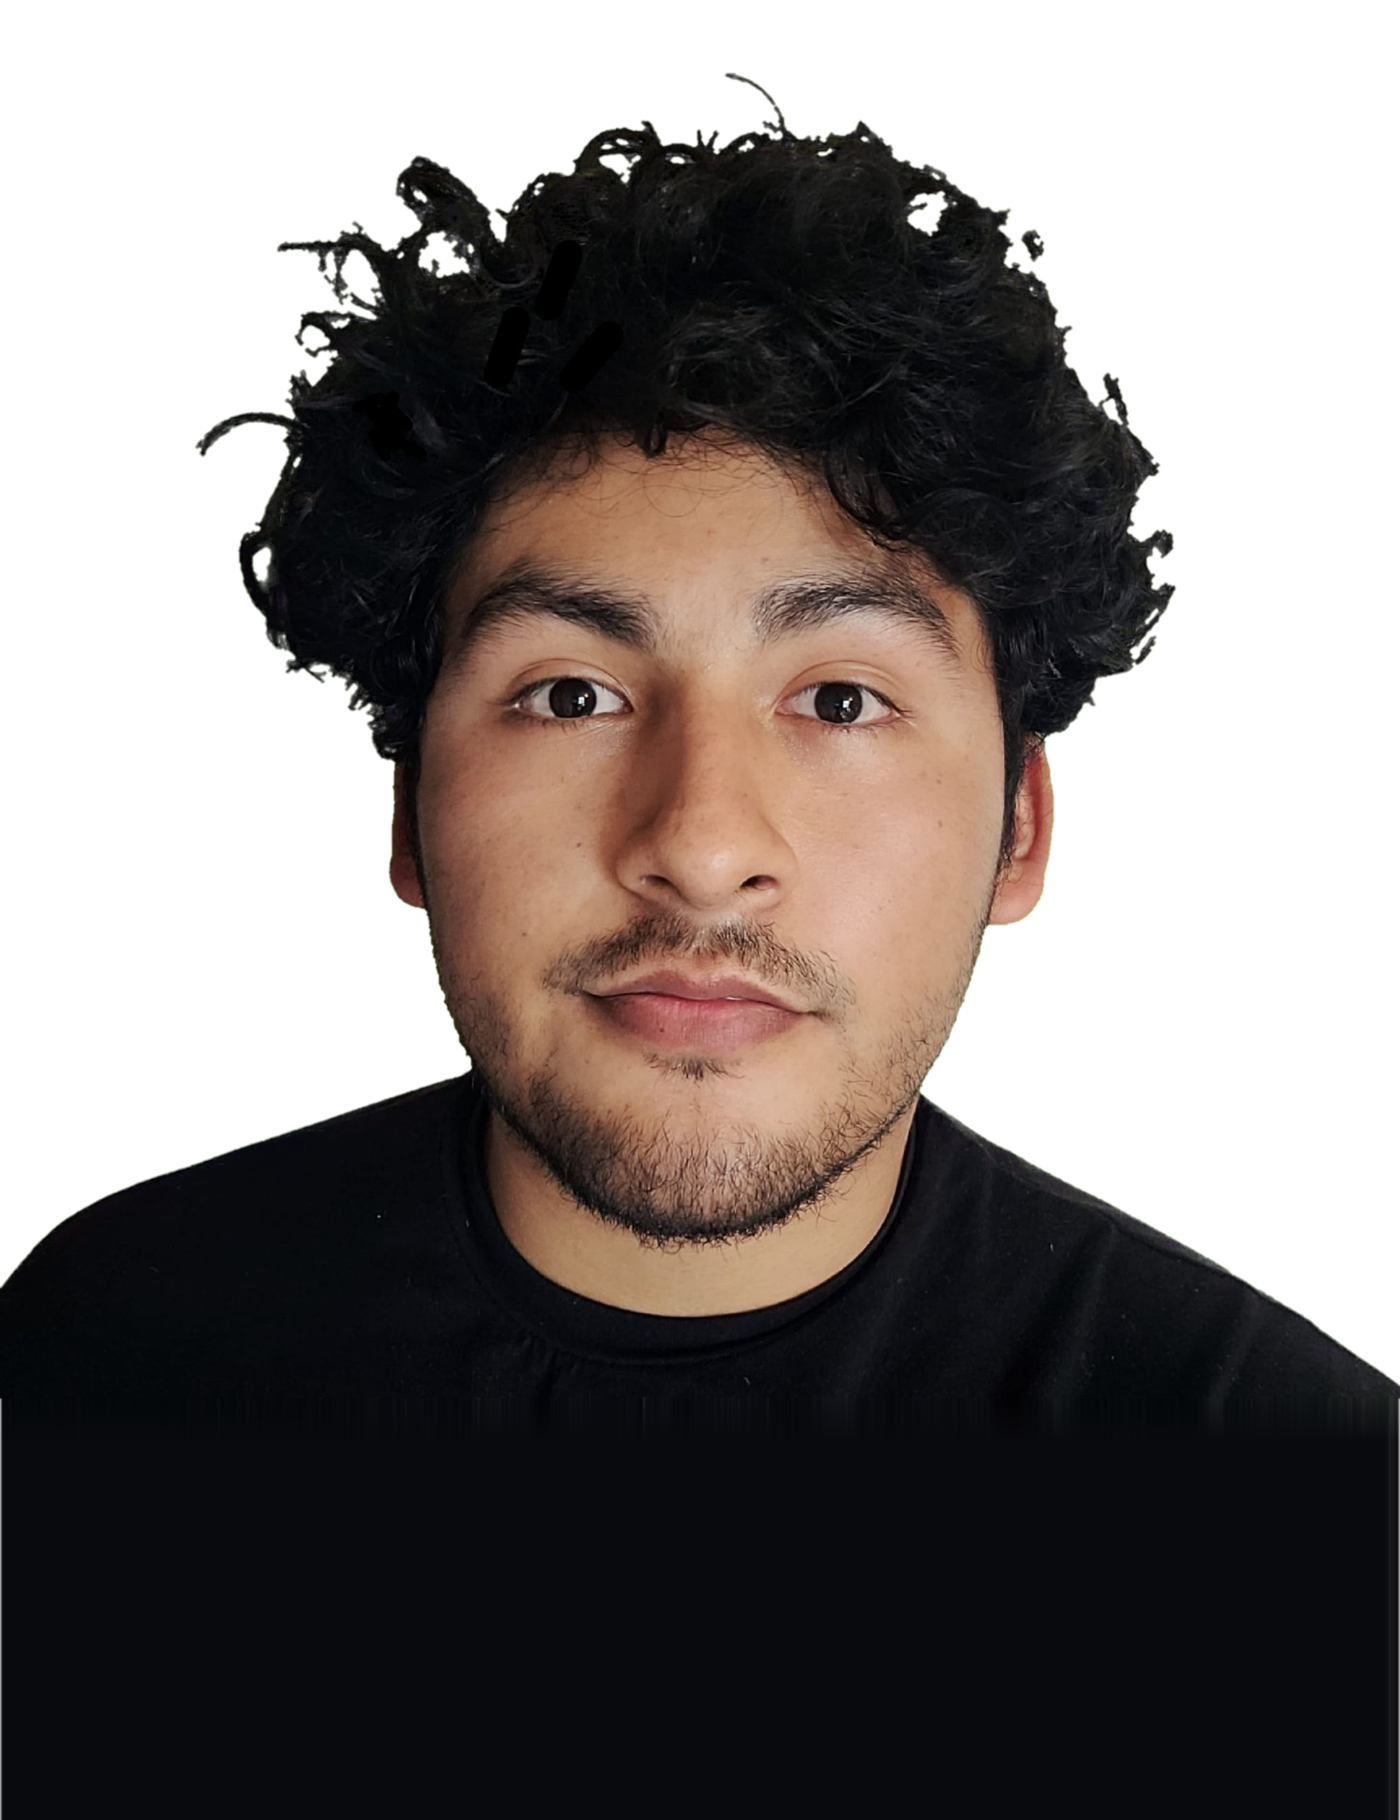
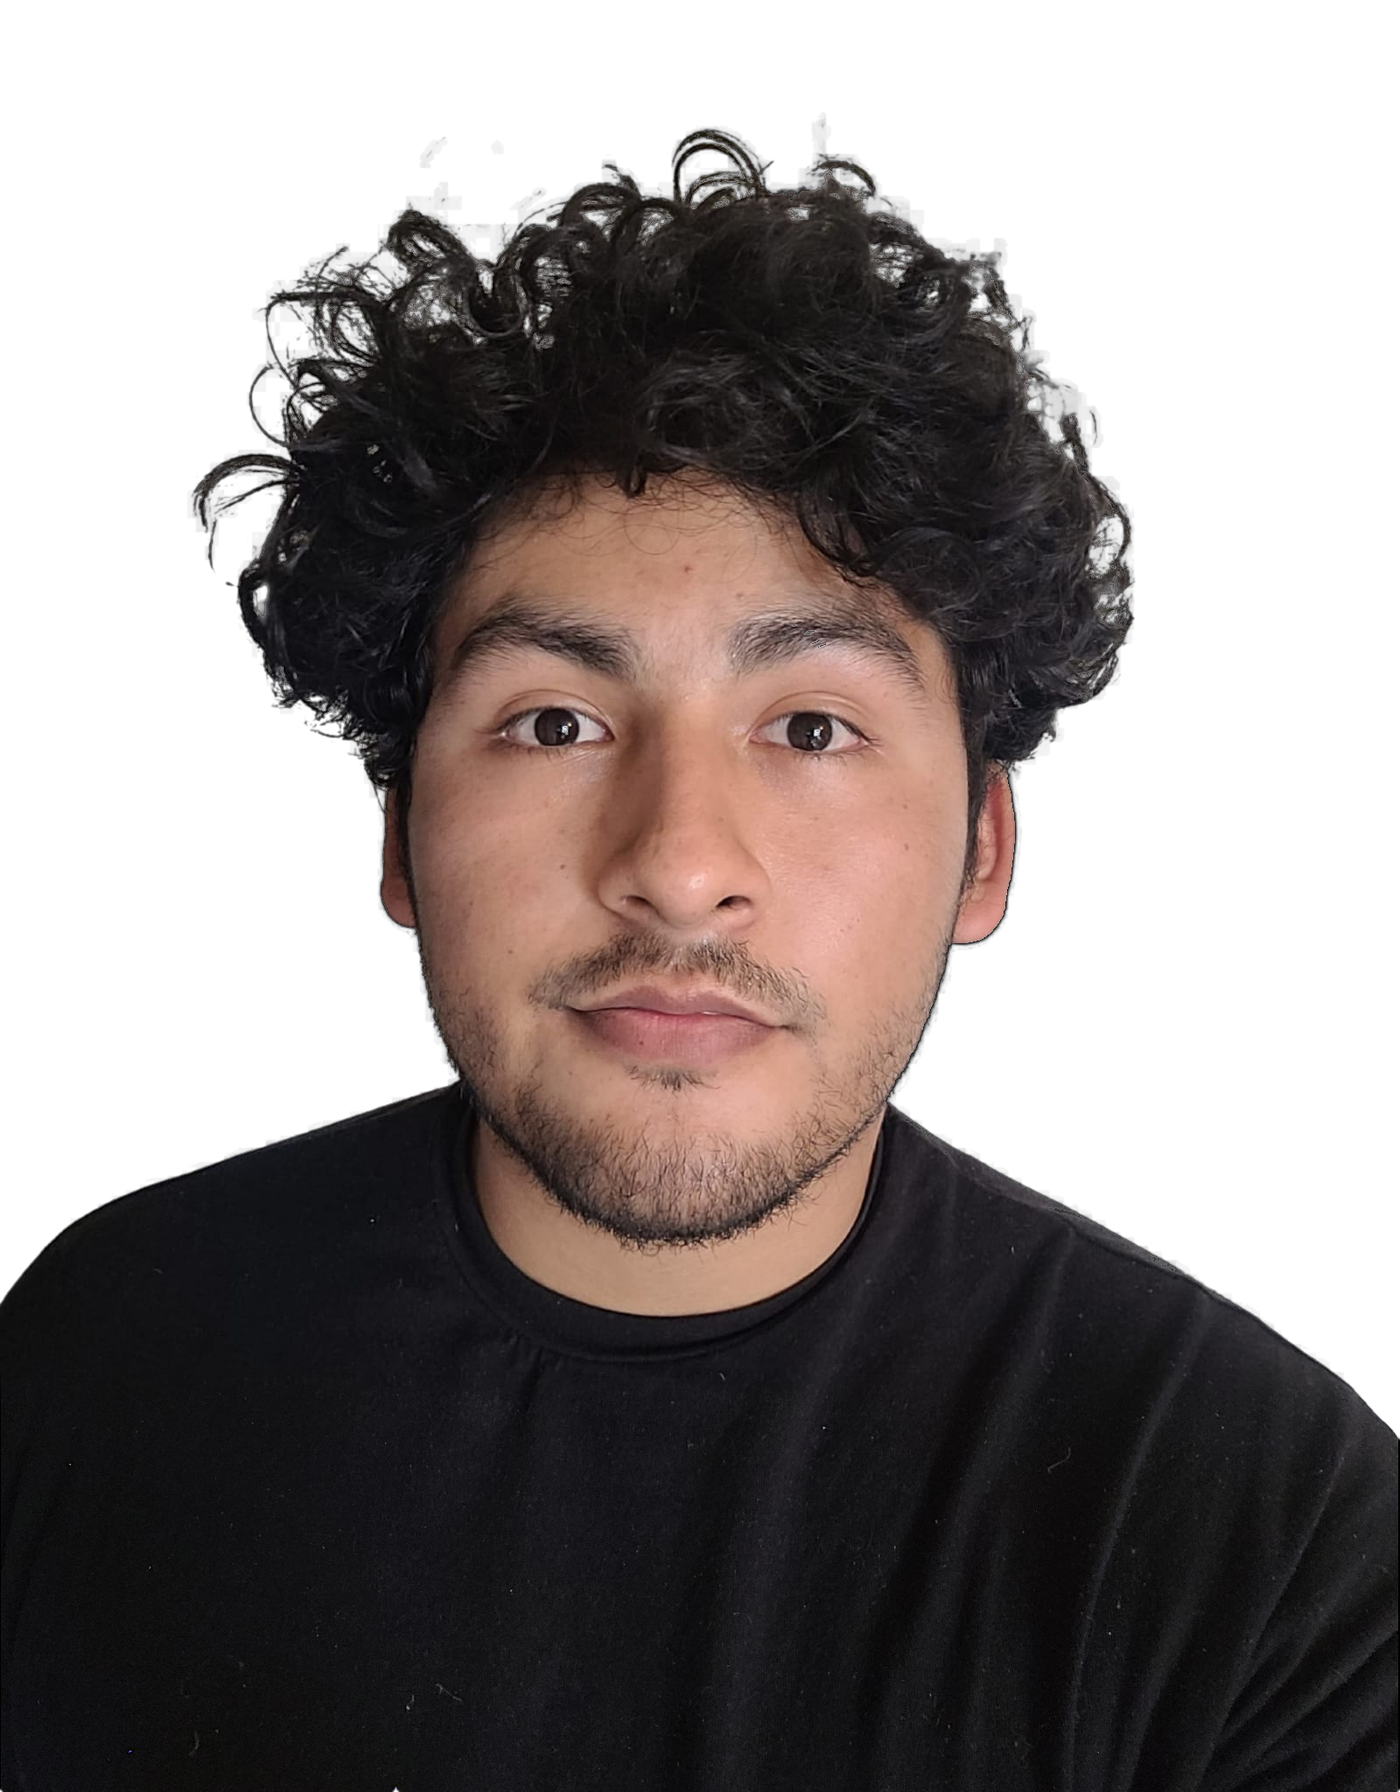
Foto en capas: polera real de la foto original y recorte fino del pelo
- La persona se recorta desde la foto con fondo blanco (transparencia en los rizos,
  sin halos grises de la edición) y debajo del cuadro va la polera real de la foto
  original, alineada automáticamente (antes era una franja negra plana)
- Contorno tipo sticker regenerado desde la nueva silueta
- build-photo-layers.py: --white/--original/--align; las fotos fuente no se suben

Claude-Session: https://claude.ai/code/session_019ygs8aVat2fAGc2tqgThqv

diff --git a/scripts/build-photo-layers.py b/scripts/build-photo-layers.py
@@ -1,73 +1,138 @@
 #!/usr/bin/env python3
 """
-Genera las capas de la foto del "Sobre mí" a partir de src/assets/rossmel.jpg
-(foto con fondo negro y contorno lima alrededor de la persona):
+Genera las capas de la foto del "Sobre mí":
 
-  src/assets/rossmel-person.png   persona recortada, fondo transparente (sin reflejos verdes)
-  src/assets/rossmel-outline.png  silueta un poco más grande: se pinta con el color de acento (CSS mask)
+  src/assets/rossmel-person.png   persona recortada (fondo transparente), 28 % más alta que el cuadro
+  src/assets/rossmel-outline.png  silueta ampliada tipo sticker: se pinta con el color de acento (CSS mask)
 
-Ambas son 30 % más altas que la foto (la polera se alarga hacia abajo) para que al moverse
-con el parallax nunca se vea el corte inferior.
+Fuentes (NO se suben al repo por privacidad; pedírselas a Rossmel):
+  --white     foto editada con fondo blanco (cuadrada): da el recorte fino del pelo
+  --original  foto original del celular: aporta la polera real debajo del cuadro
 
-Uso:  pip install pillow numpy scipy && python3 scripts/build-photo-layers.py
-Si cambias de foto, tiene que seguir teniendo fondo oscuro y un contorno de color lima.
+La original se alinea sola con la editada (correlación sobre la cara), así que pueden tener
+tamaños distintos. Uso:
+  pip install pillow numpy scipy
+  python3 scripts/build-photo-layers.py --white blanco.jpg --original original.jpg
 """
+import argparse
 import numpy as np
-from PIL import Image, ImageFilter
+from PIL import Image, ImageOps, ImageFilter
 from scipy import ndimage as ndi
 
-SRC = 'src/assets/rossmel.jpg'
-EXT = 0.3          # alargue inferior (30 %)
-GROW = 18          # cuánto más grande es el contorno que el original (px sobre 2048)
+ap = argparse.ArgumentParser()
+ap.add_argument('--white', required=True)
+ap.add_argument('--original', required=True)
+ap.add_argument('--align', help='"a,tx,ty" de una corrida anterior (salta la búsqueda, que tarda unos minutos)')
+args = ap.parse_args()
 
-a = np.asarray(Image.open(SRC).convert('RGB')).astype(np.float32)
-R, G, B = a[..., 0], a[..., 1], a[..., 2]
+N = 1600          # lado del cuadro de trabajo
+EXT = 0.28        # alto extra debajo del cuadro (polera real)
+RING = 46         # grosor del contorno alrededor de la silueta (px sobre N)
 
-# 1) Contorno lima y silueta: el fondo es lo no-verde conectado al borde superior/lateral
-green = (G > 150) & (R > 90) & (B < 110) & (G - B > 90) & (G > R)
-green = ndi.binary_opening(green, iterations=1)
-lab, _ = ndi.label(~ndi.binary_dilation(green, iterations=2))
-edge = set(np.unique(lab[0, :])) | set(np.unique(lab[: lab.shape[0] // 2, 0])) | set(np.unique(lab[: lab.shape[0] // 2, -1]))
+white = ImageOps.exif_transpose(Image.open(args.white)).convert('RGB').resize((N, N), Image.LANCZOS)
+orig = ImageOps.exif_transpose(Image.open(args.original)).convert('RGB')
+
+def align():
+  # ---- 1) Alinear la original con la editada (escala + desplazamiento, buscando sobre la cara) ----
+  # Búsqueda en dos pasos: a 1/4 de resolución por todo el rango y luego fina alrededor del mejor.
+  k = 1500 / orig.width
+  o_small = np.asarray(orig.resize((1500, round(orig.height * k)), Image.BILINEAR).convert('L')).astype(np.float32)
+  face = white.convert('L').crop((480, 650, 1120, 1250))
+
+  def ncc(img, fc, s, x, y):
+      cw, ch = int(fc.width * s), int(fc.height * s)
+      c = np.asarray(fc.resize((cw, ch), Image.BILINEAR)).astype(np.float32)
+      o = img[y:y + ch, x:x + cw]
+      if o.shape != c.shape:
+          return -1
+      return float((((c - c.mean()) / c.std()) * ((o - o.mean()) / o.std())).mean())
+
+  q = 4
+  o_q = np.asarray(Image.fromarray(o_small).resize((o_small.shape[1] // q, o_small.shape[0] // q), Image.BILINEAR))
+  face_q = face.resize((face.width // q, face.height // q), Image.BILINEAR)
+  best = (-1, 1, 0, 0)
+  for s in np.arange(0.70, 1.20, 0.01):
+      for y in range(0, o_q.shape[0] - int(face_q.height * s), 2):
+          for x in range(0, o_q.shape[1] - int(face_q.width * s), 2):
+              sc = ncc(o_q, face_q, s, x, y)
+              if sc > best[0]:
+                  best = (sc, s, x * q, y * q)
+  _, s0, x0, y0 = best
+  for s in np.arange(s0 - 0.01, s0 + 0.0101, 0.001):
+      for y in range(y0 - 10, y0 + 11, 2):
+          for x in range(x0 - 10, x0 + 11, 2):
+              sc = ncc(o_small, face, s, x, y)
+              if sc > best[0]:
+                  best = (sc, s, x, y)
+  score, s, x, y = best
+  print(f'alineación: corr={score:.3f} escala={s:.3f}')
+  # white (u,v) -> original (full res) = ((u*s + x - 480*s)/k, (v*s + y - 650*s)/k)
+  a_ = s / k
+  tx, ty = (x - 480 * s) / k, (y - 650 * s) / k
+  print(f'--align "{a_:.6f},{tx:.3f},{ty:.3f}"')
+  return a_, tx, ty
+
+a_, tx, ty = map(float, args.align.split(',')) if args.align else align()
+H = int(N * (1 + EXT))
+orig_al = orig.transform((N, H), Image.AFFINE, (a_, 0, tx, 0, a_, ty), Image.BICUBIC)
+O = np.asarray(orig_al).astype(np.float32)
+
+# ---- 2) Alfa fino desde la foto con fondo blanco ----
+Wf = np.asarray(white).astype(np.float32)
+L = Wf @ np.array([0.299, 0.587, 0.114])
+mx, mn = Wf.max(-1), Wf.min(-1)
+sat = (mx - mn) / np.maximum(mx, 1)
+bgcol = np.median(Wf[:40].reshape(-1, 3), axis=0)
+Lbg = float(bgcol @ np.array([0.299, 0.587, 0.114]))
+# fondo "duro": claro, poco saturado y conectado con los bordes superior/laterales
+bgish = (L > Lbg - 28) & (sat < 0.10)
+lab, _ = ndi.label(bgish)
+edge = set(np.unique(lab[0])) | set(np.unique(lab[:, 0])) | set(np.unique(lab[:, -1]))
 edge.discard(0)
-sil = ndi.binary_fill_holes(~np.isin(lab, list(edge)))
+hard = ndi.binary_fill_holes(~np.isin(lab, list(edge)))
+hard = ndi.binary_opening(hard, iterations=2)
+# parecido al fondo (0..1): claro y sin color → huecos entre rizos y bordes de pelo
+# (la edición dejó grises claros alrededor de los rizos: todo lo claro y sin color cuenta como fondo)
+b = np.clip((L - 70) / (175 - 70), 0, 1) * (1 - np.clip(sat / 0.16, 0, 1))
+band = ndi.binary_dilation(hard, iterations=6)
+alpha = np.where(band, 1 - b, 0.0)
+# cuerpo interior sólido (evita transparencias en piel clara o brillos)
+# en la zona del pelo (arriba de los ojos) los grises no son sólidos: son restos de la edición
+yy = np.arange(N)[:, None]
+hairzone = np.broadcast_to(yy < int(N * 0.5), (N, N))
+core = ndi.binary_erosion(hard, iterations=18) & ~(b > 0.85) & ~(hairzone & (b > 0.3))
+alpha = np.where(core, 1.0, alpha)
+alpha = ndi.gaussian_filter(alpha, 0.7)
+# descontaminar: en los bordes semitransparentes del pelo, el color es el del pelo (sin blanco mezclado)
+hair = np.median(Wf[core & (L < 60)].reshape(-1, 3), axis=0)
+edge_px = (alpha < 0.97) & ~core
+w = np.clip((1 - alpha) * 1.6, 0, 1)[..., None]           # cuanto más transparente, más color de pelo
+rgb = np.where(edge_px[..., None], Wf * (1 - w) + hair * w, Wf)
+rgb = np.where((edge_px & (L > 90))[..., None], hair, rgb)   # restos claros → pelo
+rgb = np.where(alpha[..., None] > 0.02, rgb, 0)
 
-# 2) Persona = silueta sin el verde (también el verde entre los rizos)
-soft_green = (G > 110) & (G - B > 60) & (G > R + 5)
-person = sil & ~ndi.binary_dilation(green | soft_green, iterations=2)
-person = ndi.binary_opening(person, iterations=2)
-lab, n = ndi.label(person)
-sizes = ndi.sum(person, lab, range(1, n + 1))
-person = np.isin(lab, [i + 1 for i, s in enumerate(sizes) if s > 400])
+# ---- 3) Debajo del cuadro: la polera real de la original ----
+Lo = O @ np.array([0.299, 0.587, 0.114])
+shirt = ndi.binary_opening(Lo < 95, iterations=3)
+shirt = ndi.binary_fill_holes(shirt)
+ext_alpha = ndi.gaussian_filter(shirt.astype(np.float32), 1.0)
+full_rgb = np.concatenate([rgb, O[N:]], 0)
+full_a = np.concatenate([alpha, ext_alpha[N:]], 0)
+# costura: mezclar 40 px antes del borde inferior del cuadro
+for i in range(40):
+    t = (i + 1) / 41
+    r = N - 40 + i
+    full_rgb[r] = full_rgb[r] * (1 - t) + O[r] * t
+    full_a[r] = full_a[r] * (1 - t) + ext_alpha[r] * t
 
-# 3) Quitar el tinte verde del pelo cerca del contorno y desvanecer los bordes más verdes
-near = ndi.binary_dilation(green | soft_green, iterations=36) & person
-greenness = np.clip((G - np.maximum(R, B)) / 70.0, 0, 1)
-tint = near & (G > B + 8) & (G >= R)
-m = np.minimum(np.minimum(R, G), B)
-rgb = np.stack([np.where(tint, m * 1.02, R), np.where(tint, m * 0.97, G), np.where(tint, m, B)], -1)
-alpha = np.asarray(Image.fromarray((person * 255).astype(np.uint8)).filter(ImageFilter.GaussianBlur(1.2))).astype(np.float32)
-alpha *= np.where(near, 1 - greenness * 0.9, 1)
-rgba = np.dstack([rgb, alpha]).clip(0, 255)
+person = Image.fromarray(np.dstack([full_rgb, full_a * 255]).clip(0, 255).astype(np.uint8), 'RGBA')
+person.resize((1400, int(1400 * (1 + EXT))), Image.LANCZOS).save('src/assets/rossmel-person.png', optimize=True)
 
-# 4) Alargar hacia abajo: la polera continúa con su color liso (sin rayas)
-h = rgba.shape[0]
-add = int(h * EXT)
-band = rgba[-40:]
-flat = np.median(band[..., :3][band[..., 3] > 200], axis=0)
-last = rgba[-1]
-rows = []
-for i in range(add):
-    t = min(1.0, i / 60.0)
-    row = last.copy()
-    row[:, :3] = last[:, :3] * (1 - t) + flat * t
-    rows.append(row)
-person_img = Image.fromarray(np.concatenate([rgba, np.stack(rows)], 0).astype(np.uint8))
-person_img.resize((1400, int(1400 * (1 + EXT))), Image.LANCZOS).save('src/assets/rossmel-person.png', optimize=True)
-
-# 5) Silueta del contorno (más grande), alargada igual, como máscara alfa
-big = ndi.binary_dilation(sil, iterations=GROW)
-big = np.concatenate([big, np.repeat(big[-1:], add, 0)], 0)
-mask = Image.fromarray((big * 255).astype(np.uint8)).filter(ImageFilter.GaussianBlur(1.5))
+# ---- 4) Contorno tipo sticker: silueta ampliada y suavizada ----
+sil = ndi.binary_fill_holes(full_a > 0.5)
+grown = ndi.distance_transform_edt(~sil) <= RING
+smooth = ndi.gaussian_filter(grown.astype(np.float32), 9) > 0.5
+mask = Image.fromarray((smooth * 255).astype(np.uint8)).filter(ImageFilter.GaussianBlur(1.2))
 mask = mask.resize((800, int(800 * (1 + EXT))), Image.LANCZOS)
 out = Image.new('RGBA', mask.size, (255, 255, 255, 0))
 out.putalpha(mask)

diff --git a/README.md b/README.md
@@ -327,10 +327,20 @@ El formulario de contacto al final de cada artículo sigue funcionando igual.
 ### Foto en capas ("Sobre mí")
 La foto se arma con 3 capas: fondo negro (CSS), contorno (`src/assets/rossmel-outline.png` usado como
 máscara y pintado con `--accent`: lima en oscuro, violeta en claro) y la persona recortada
-(`src/assets/rossmel-person.png`). Se generan desde `src/assets/rossmel.jpg` con
-`python3 scripts/build-photo-layers.py` (requiere `pip install pillow numpy scipy`). La animación está
-en `animations.ts` → `initLayers()`; sin JS o con reduced-motion las capas quedan alineadas y se ve la
-foto original. `rossmel.jpg` sigue siendo la imagen de los datos estructurados (JSON-LD).
+(`src/assets/rossmel-person.png`, 28 % más alta que el cuadro: debajo va la polera real de la foto
+original, así el parallax nunca muestra un corte). Se generan con:
+
+```bash
+pip install pillow numpy scipy
+python3 scripts/build-photo-layers.py --white foto-fondo-blanco.jpg --original foto-original.jpg
+```
+
+- `--white`: la foto editada con fondo blanco (recorte fino del pelo). `--original`: la foto del celular
+  (aporta la polera). Las fuentes **no se suben al repo** (la original muestra la casa): las tiene Rossmel.
+- El script alinea solo la original con la editada (tarda ~5 min) e imprime `--align "a,tx,ty"`; pasarlo
+  en las siguientes corridas las hace instantáneas. Último valor: `--align "3.064896,-2.350,214.282"`.
+- La animación está en `animations.ts` → `initLayers()`; sin JS o con reduced-motion las capas quedan
+  alineadas. `rossmel.jpg` (la versión con contorno) sigue siendo la imagen del JSON-LD.
 
 ### SEO
 - `@astrojs/sitemap` genera `sitemap-index.xml` (ES/EN con hreflang); `robots.txt` lo declara.
